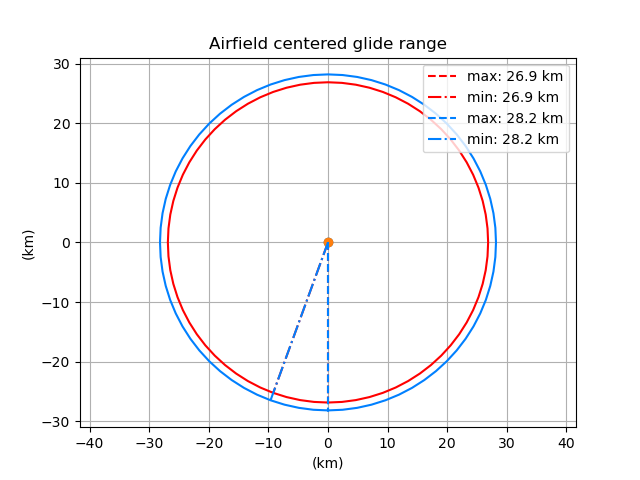
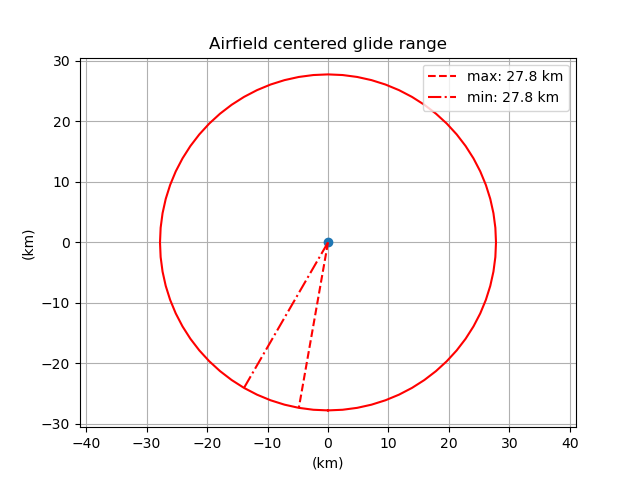
Added LS8 15m

Changed region(s): [[0.0625, 0.125, 0.9062, 0.9375], [0.875, 0.3125, 0.9062, 0.3438]]

diff --git a/results/map.html b/results/map.html
@@ -31,22 +31,17 @@
             map: map
         });
 
-        var marker_icon_0080FF = {
[1 lines of base64/hex data omitted]
-            labelOrigin: new google.maps.Point(10, 11)
-        };
-
-        new google.maps.Marker({
-            position: new google.maps.LatLng(61.543568, 22.528914),
-            title: "Min distance 28.2 km, HDG 20 degT",
-            icon: marker_icon_0080FF,
-            map: map
-        });
-
         var marker_icon_FF0000 = {
[1 lines of base64/hex data omitted]
             labelOrigin: new google.maps.Point(10, 11)
         };
+
+        new google.maps.Marker({
+            position: new google.maps.LatLng(61.565197, 22.448793),
+            title: "Min distance 27.8 km, HDG 30 degT",
+            icon: marker_icon_FF0000,
+            map: map
+        });
 
         var info_marker_0 = new google.maps.Marker({
             position: new google.maps.LatLng(61.794795, 22.738606),
@@ -121,97 +116,97 @@
         new google.maps.Polyline({
             clickable: false,
             geodesic: true,
-            strokeColor: "#0080FF",
+            strokeColor: "#FF0000",
             strokeOpacity: 1.000000,
             strokeWeight: 2,
             map: map,
             path: [
-                new google.maps.LatLng(61.528436, 22.710170),
-                new google.maps.LatLng(61.529391, 22.664002),
-                new google.maps.LatLng(61.532248, 22.618177),
-                new google.maps.LatLng(61.536985, 22.573036),
-                new google.maps.LatLng(61.543568, 22.528914),
-                new google.maps.LatLng(61.551948, 22.486140),
-                new google.maps.LatLng(61.562062, 22.445033),
-                new google.maps.LatLng(61.573835, 22.405902),
-                new google.maps.LatLng(61.587179, 22.369040),
-                new google.maps.LatLng(61.601995, 22.334726),
-                new google.maps.LatLng(61.618172, 22.303220),
-                new google.maps.LatLng(61.635588, 22.274763),
-                new google.maps.LatLng(61.654114, 22.249572),
-                new google.maps.LatLng(61.673609, 22.227844),
-                new google.maps.LatLng(61.693928, 22.209747),
-                new google.maps.LatLng(61.714917, 22.195427),
-                new google.maps.LatLng(61.736417, 22.184999),
-                new google.maps.LatLng(61.758267, 22.178550),
-                new google.maps.LatLng(61.780299, 22.176138),
-                new google.maps.LatLng(61.802348, 22.177789),
-                new google.maps.LatLng(61.824244, 22.183499),
-                new google.maps.LatLng(61.845821, 22.193234),
-                new google.maps.LatLng(61.866913, 22.206928),
-                new google.maps.LatLng(61.887359, 22.224484),
-                new google.maps.LatLng(61.907002, 22.245774),
-                new google.maps.LatLng(61.925691, 22.270641),
-                new google.maps.LatLng(61.943281, 22.298901),
-                new google.maps.LatLng(61.959638, 22.330340),
-                new google.maps.LatLng(61.974633, 22.364721),
-                new google.maps.LatLng(61.988151, 22.401780),
-                new google.maps.LatLng(62.000088, 22.441235),
-                new google.maps.LatLng(62.010349, 22.482780),
-                new google.maps.LatLng(62.018856, 22.526094),
-                new google.maps.LatLng(62.025543, 22.570843),
-                new google.maps.LatLng(62.030357, 22.616677),
-                new google.maps.LatLng(62.033260, 22.663241),
-                new google.maps.LatLng(62.034230, 22.710170),
-                new google.maps.LatLng(62.033260, 22.757099),
-                new google.maps.LatLng(62.030357, 22.803663),
-                new google.maps.LatLng(62.025543, 22.849497),
-                new google.maps.LatLng(62.018856, 22.894246),
-                new google.maps.LatLng(62.010349, 22.937560),
-                new google.maps.LatLng(62.000088, 22.979105),
-                new google.maps.LatLng(61.988151, 23.018560),
-                new google.maps.LatLng(61.974633, 23.055619),
-                new google.maps.LatLng(61.959638, 23.090000),
-                new google.maps.LatLng(61.943281, 23.121439),
-                new google.maps.LatLng(61.925691, 23.149699),
-                new google.maps.LatLng(61.907002, 23.174566),
-                new google.maps.LatLng(61.887359, 23.195856),
-                new google.maps.LatLng(61.866913, 23.213412),
-                new google.maps.LatLng(61.845821, 23.227106),
-                new google.maps.LatLng(61.824244, 23.236841),
-                new google.maps.LatLng(61.802348, 23.242551),
-                new google.maps.LatLng(61.780299, 23.244202),
-                new google.maps.LatLng(61.758267, 23.241790),
-                new google.maps.LatLng(61.736417, 23.235341),
-                new google.maps.LatLng(61.714917, 23.224913),
-                new google.maps.LatLng(61.693928, 23.210593),
-                new google.maps.LatLng(61.673609, 23.192496),
-                new google.maps.LatLng(61.654114, 23.170768),
-                new google.maps.LatLng(61.635588, 23.145577),
-                new google.maps.LatLng(61.618172, 23.117120),
-                new google.maps.LatLng(61.601995, 23.085614),
-                new google.maps.LatLng(61.587179, 23.051300),
-                new google.maps.LatLng(61.573835, 23.014438),
-                new google.maps.LatLng(61.562062, 22.975307),
-                new google.maps.LatLng(61.551948, 22.934200),
-                new google.maps.LatLng(61.543568, 22.891426),
-                new google.maps.LatLng(61.536985, 22.847304),
-                new google.maps.LatLng(61.532248, 22.802163),
-                new google.maps.LatLng(61.529391, 22.756338),
-                new google.maps.LatLng(61.528436, 22.710170),
+                new google.maps.LatLng(61.532048, 22.710170),
+                new google.maps.LatLng(61.532989, 22.664656),
+                new google.maps.LatLng(61.535806, 22.619481),
+                new google.maps.LatLng(61.540476, 22.574979),
+                new google.maps.LatLng(61.546966, 22.531483),
+                new google.maps.LatLng(61.555227, 22.489316),
+                new google.maps.LatLng(61.565197, 22.448793),
+                new google.maps.LatLng(61.576803, 22.410219),
+                new google.maps.LatLng(61.589958, 22.373882),
+                new google.maps.LatLng(61.604564, 22.340058),
+                new google.maps.LatLng(61.620511, 22.309002),
+                new google.maps.LatLng(61.637679, 22.280952),
+                new google.maps.LatLng(61.655941, 22.256123),
+                new google.maps.LatLng(61.675160, 22.234708),
+                new google.maps.LatLng(61.695189, 22.216874),
+                new google.maps.LatLng(61.715879, 22.202763),
+                new google.maps.LatLng(61.737073, 22.192489),
+                new google.maps.LatLng(61.758611, 22.186137),
+                new google.maps.LatLng(61.780329, 22.183764),
+                new google.maps.LatLng(61.802062, 22.185397),
+                new google.maps.LatLng(61.823645, 22.191031),
+                new google.maps.LatLng(61.844913, 22.200632),
+                new google.maps.LatLng(61.865704, 22.214135),
+                new google.maps.LatLng(61.885857, 22.231444),
+                new google.maps.LatLng(61.905219, 22.252433),
+                new google.maps.LatLng(61.923639, 22.276947),
+                new google.maps.LatLng(61.940977, 22.304805),
+                new google.maps.LatLng(61.957099, 22.335796),
+                new google.maps.LatLng(61.971879, 22.369685),
+                new google.maps.LatLng(61.985203, 22.406214),
+                new google.maps.LatLng(61.996967, 22.445102),
+                new google.maps.LatLng(62.007081, 22.486051),
+                new google.maps.LatLng(62.015466, 22.528743),
+                new google.maps.LatLng(62.022056, 22.572848),
+                new google.maps.LatLng(62.026801, 22.618023),
+                new google.maps.LatLng(62.029662, 22.663916),
+                new google.maps.LatLng(62.030619, 22.710170),
+                new google.maps.LatLng(62.029662, 22.756424),
+                new google.maps.LatLng(62.026801, 22.802317),
+                new google.maps.LatLng(62.022056, 22.847492),
+                new google.maps.LatLng(62.015466, 22.891597),
+                new google.maps.LatLng(62.007081, 22.934289),
+                new google.maps.LatLng(61.996967, 22.975238),
+                new google.maps.LatLng(61.985203, 23.014126),
+                new google.maps.LatLng(61.971879, 23.050655),
+                new google.maps.LatLng(61.957099, 23.084544),
+                new google.maps.LatLng(61.940977, 23.115535),
+                new google.maps.LatLng(61.923639, 23.143393),
+                new google.maps.LatLng(61.905219, 23.167907),
+                new google.maps.LatLng(61.885857, 23.188896),
+                new google.maps.LatLng(61.865704, 23.206205),
+                new google.maps.LatLng(61.844913, 23.219708),
+                new google.maps.LatLng(61.823645, 23.229309),
+                new google.maps.LatLng(61.802062, 23.234943),
+                new google.maps.LatLng(61.780329, 23.236576),
+                new google.maps.LatLng(61.758611, 23.234203),
+                new google.maps.LatLng(61.737073, 23.227851),
+                new google.maps.LatLng(61.715879, 23.217577),
+                new google.maps.LatLng(61.695189, 23.203466),
+                new google.maps.LatLng(61.675160, 23.185632),
+                new google.maps.LatLng(61.655941, 23.164217),
+                new google.maps.LatLng(61.637679, 23.139388),
+                new google.maps.LatLng(61.620511, 23.111338),
+                new google.maps.LatLng(61.604564, 23.080282),
+                new google.maps.LatLng(61.589958, 23.046458),
+                new google.maps.LatLng(61.576803, 23.010121),
+                new google.maps.LatLng(61.565197, 22.971547),
+                new google.maps.LatLng(61.555227, 22.931024),
+                new google.maps.LatLng(61.546966, 22.888857),
+                new google.maps.LatLng(61.540476, 22.845361),
+                new google.maps.LatLng(61.535806, 22.800859),
+                new google.maps.LatLng(61.532989, 22.755684),
+                new google.maps.LatLng(61.532048, 22.710170),
             ]
         });
 
         new google.maps.Polyline({
             clickable: false,
             geodesic: true,
-            strokeColor: "#0080FF",
+            strokeColor: "#FF0000",
             strokeOpacity: 1.000000,
             strokeWeight: 2,
             map: map,
             path: [
                 new google.maps.LatLng(61.781338, 22.710170),
-                new google.maps.LatLng(61.543568, 22.528914),
+                new google.maps.LatLng(61.565197, 22.448793),
             ]
         });
 
